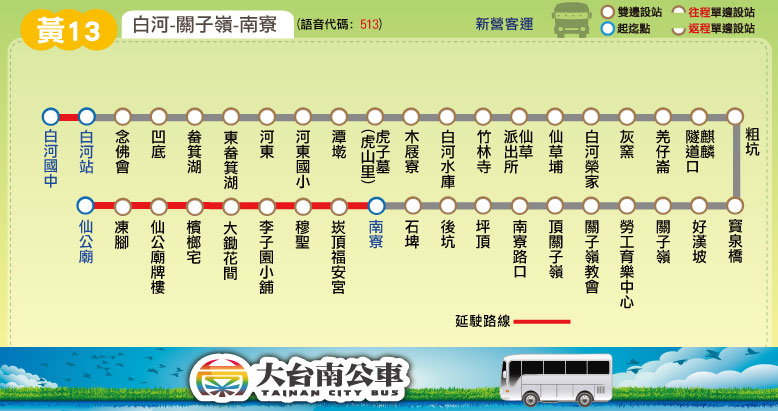
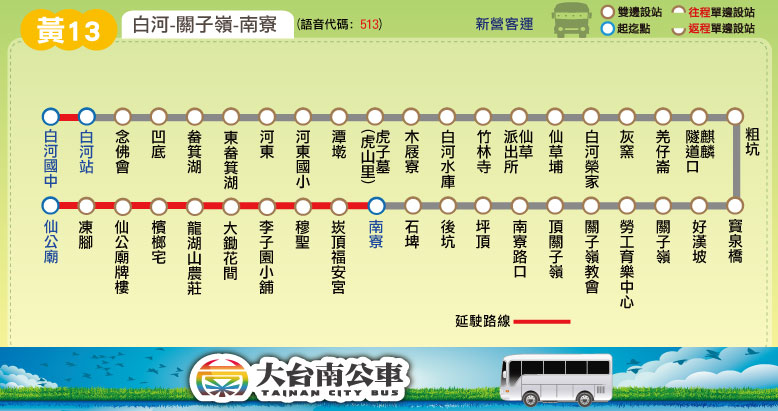
新增站位：黃11-1、黃13(增「龍湖山農莊」)

Changed region(s): [[0.0308, 0.4672, 0.2776, 0.7299]]

diff --git a/route/fare_and_time/yellow_11_1.js b/route/fare_and_time/yellow_11_1.js
@@ -11,7 +11,7 @@ yellow_11_1_interval_stop = [
 ["崎腳"], // 崎腳
 ["店子前","下子店","青山","高原社區","墩子腳","車關寮","公厝","水井","水井尾","科頭","科尾","高原里","李子園路口","碌砳埔"], // 青山
 ["北寮","中庄"], // 北寮
-["穆聖","李子園小舖","李子園","福安宮","半山仔","大鋤花間"], // 李子園
+["穆聖","李子園小舖","李子園","福安宮","半山仔","大鋤花間","龍湖山農莊"], // 李子園
 ["檳榔宅"], // 檳榔宅
 ["二坑埔","下二坑","內埔仔"], // 二坑埔
 ["鴨母寮","南寮口","田寮仔"] // 南寮口

diff --git a/route/fare_and_time/yellow_13.js b/route/fare_and_time/yellow_13.js
@@ -10,7 +10,7 @@ yellow_13_interval_stop = [ // 2018.03.30 checked
 ["南寮路口"], // 南寮路口
 ["坪頂"], // 坪頂
 ["後坑","石埤","南寮","崁頂福安宮"], // 南寮
-["穆聖","李子園小舖","大鋤花間"], // 大鋤花間
+["穆聖","李子園小舖","大鋤花間","龍湖山農莊"], // 大鋤花間
 ["檳榔宅"], // 檳榔宅
 ["仙公廟牌樓","凍腳","仙公廟"] // 仙公廟
 ];
